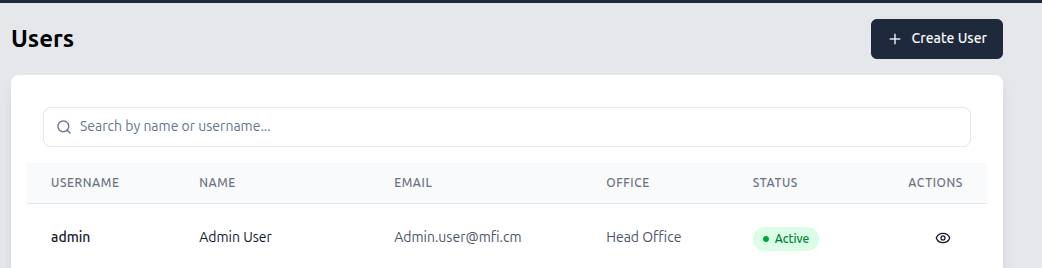
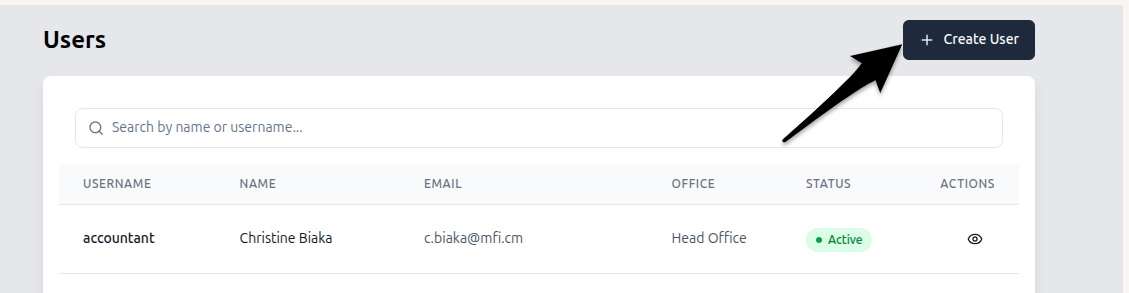
fix: add arrows to buttons

diff --git a/docs/admin-guide/admin-app-guide.md b/docs/admin-guide/admin-app-guide.md
@@ -36,7 +36,7 @@ For security reasons, you must immediately reset your password after your first 
 
 **Step 4:** On your User Details page, click the **"Reset Password"** button located at the top-right of the page.
 
-![The user details page for the admin, with  the 'Reset Password' button.](./images/admin-user-details-reset-password.png)
+![The user details page for the admin, with  the 'Reset Password' button.](./images/reset-password-button.png)
 
 **Step 5:** A confirmation dialog will appear. Click "Confirm". An email will be sent to your registered email address.
 
@@ -165,7 +165,7 @@ If you suspect a user's account may be compromised, you can force them to change
 
 The next time the user tries to log in, they will be prompted to create a new password.
 
-![The 'Force Password Change' button on the user details page.](./images/![alt text](image.png))
+![The 'Force Password Change' button on the user details page.](./images/force-password-change-button.png)
 
 ---
 
